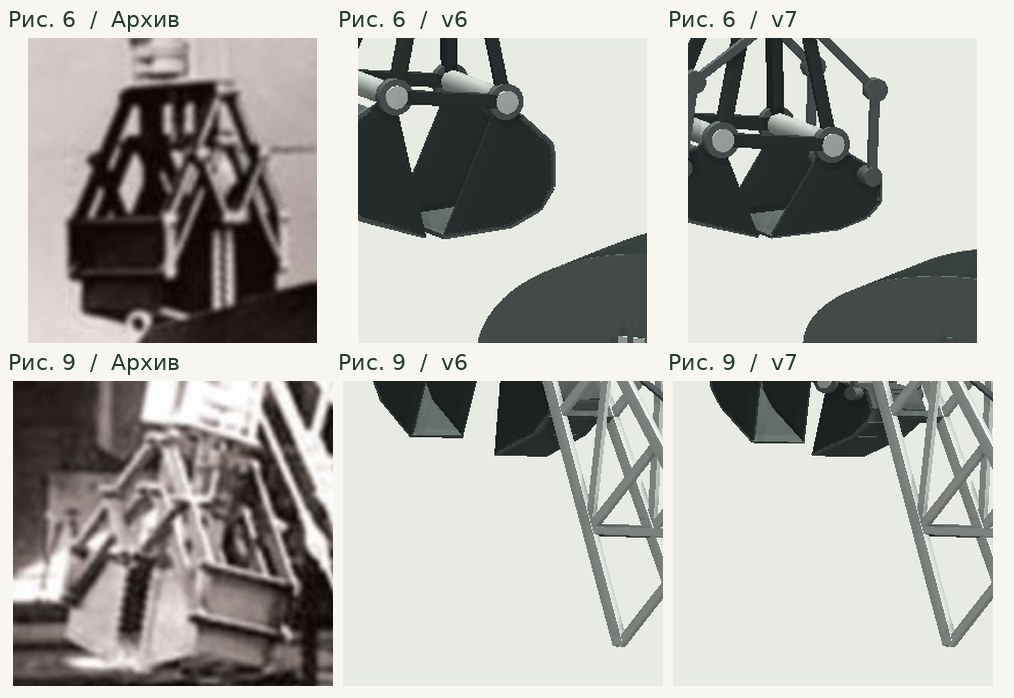
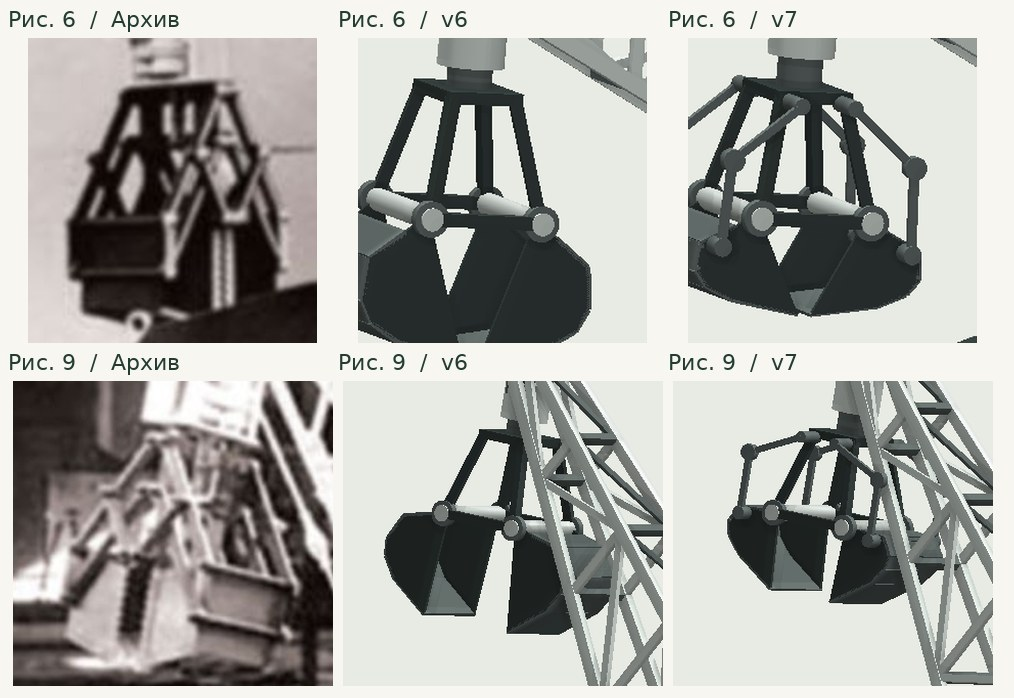
Сопоставить челюсти в одном масштабе и записать приёмку Chromium

diff --git a/mobot-ch-hv-1986-research-v7.html b/mobot-ch-hv-1986-research-v7.html
@@ -35,6 +35,6 @@
 <p class="credit">В. В. Овчинников, А. Ф. Батанов, С. Г. Мингалеев. «Роботы в Чернобыле». <i>Технологии гражданской безопасности</i>, 2019, № 4 (62). Положение модели подобрано по фотографии приблизительно.</p></section>
 <section id="passport" class="section"><div class="sectitle"><div><div class="kicker"><span class="rule"></span>Паспорт модели</div><h2>Степень достоверности</h2></div></div>
 <div class="evidence"><article><b>A</b><div><h3>Техническое описание</h3><p>Полиуретановые траки, грейфер, две степени подвижности погрузчика и две телекамеры.</p></div></article><article><b>B</b><div><h3>Архивный снимок</h3><p>Очертания кожуха, решётчатые боковины стрелы, нижний ряд дисков и форма ковша.</p></div></article><article><b>C</b><div><h3>Гипотеза</h3><p>Размеры, скрытые связи, оси и диапазоны движений. Заводские чертежи и обмеры отсутствуют.</p></div></article></div>
-<div class="footlinks"><a href="./research/mobot/1986/v7/whole-machine.jpg">Машина в двух ракурсах ↗</a><a href="./research/mobot/1986/v7/comparison.jpg">Грейфер: архив / v6 / v7 ↗</a><a href="./mobot-ch-hv-1986-research-v7-passport.json">Паспорт узлов ↗</a><a href="./mobot-ch-hv-1986-research-v7-qa.json">Журнал проверок ↗</a><a href="./mobot-ch-hv-1986-research-v6.html">Предыдущая версия v6 ↗</a></div></section>
+<div class="footlinks"><a href="./research/mobot/1986/v7/whole-machine.jpg">Общий вид · совмещение по шасси ↗</a><a href="./research/mobot/1986/v7/comparison.jpg">Грейфер · совмещение по траверсе ↗</a><a href="./mobot-ch-hv-1986-research-v7-passport.json">Паспорт узлов ↗</a><a href="./mobot-ch-hv-1986-research-v7-qa.json">Журнал проверок ↗</a><a href="./mobot-ch-hv-1986-research-v6.html">Предыдущая версия v6 ↗</a></div></section>
 </main><footer><div class="wrap bar"><span>Мобот-Ч-ХВ · 1986</span><a href="https://github.com/STEP3DLab/vr_anapa">Исходные материалы ↗</a></div></footer>
 <script type="module" src="./research/mobot/1986/v7/viewer.js"></script></body></html>

diff --git a/research/mobot/1986/v7/plates.py b/research/mobot/1986/v7/plates.py
@@ -19,7 +19,15 @@ def create_plate(tmp,detail):
     for row,key in enumerate(('fig6','fig9')):
         source=Image.open(ROOT/data[key]['image']).convert('RGB')
         for col,image in enumerate([source,Image.open(tmp/(key+'-v6.ppm')),Image.open(tmp/(key+'-v7.ppm'))]):
-            if detail:image=image.crop(data[key]['crop'])
+            if detail:
+                x0,y0,x1,y1=data[key]['crop']
+                if col:
+                    # Translate the crop only, keeping the chassis-derived pixel scale.
+                    anchor=json.loads((tmp/(key+'-'+headers[col]+'.json')).read_text())['top']
+                    tx,ty=data[key]['grapple']['top'][:2]
+                    dx,dy=round(anchor[0]-tx),round(anchor[1]-ty)
+                    x0+=dx;x1+=dx;y0+=dy;y1+=dy
+                image=image.crop((x0,y0,x1,y1))
             tile=ImageOps.contain(image,(tw-6,th),Image.Resampling.LANCZOS);left=8+col*tw;y=6+row*(th+38)
             draw.text((left,y),'Рис. '+key[3:]+'  /  '+headers[col],font=font,fill='#233c32')
             plate.paste(tile,(left+(tw-tile.width)//2,y+32+(th-tile.height)//2))
@@ -28,5 +36,5 @@ with tempfile.TemporaryDirectory() as temp:
     tmp=Path(temp)
     for key in ('fig6','fig9'):
         for v in ('v6','v7'):
-            subprocess.run(['node',str(HERE/'photo-render.mjs'),str(args.registration),key,v,str(tmp/(key+'-'+v+'.ppm'))],cwd=ROOT,check=True)
+            subprocess.run(['node',str(HERE/'photo-render.mjs'),str(args.registration),key,v,str(tmp/(key+'-'+v+'.ppm')),str(tmp/(key+'-'+v+'.json'))],cwd=ROOT,check=True)
     for detail in (True,False):create_plate(tmp,detail)

diff --git a/research/mobot/1986/v7/STATE.md b/research/mobot/1986/v7/STATE.md
@@ -35,3 +35,7 @@
 Геометрия — PASS (2025 поз сетки; 3204 позы грейфера; 7865 поз ковша; 6144 дополнительных сочетаний движений; 188928 расстояний от реальных башмаков до окружностей колёс). Заменено вычисление плоской ориентации звеньев, снято расхождение вблизи вертикали: остаток на пальце меньше 1e-12 условной единицы. Физический телефон, обмер оригинала и все пары деталей — NOT RUN. Приёмка WebGL2 и публичной страницы — смотреть последний завершённый [прогон GitHub](https://github.com/STEP3DLab/vr_anapa/actions/workflows/mobot-1986-v7-verify.yml).
 
 Очередь на ночь: (1) по двум фото раздельно разметить пальцы оголовка, верх траверсы и оси пяты, оценить перспективу и сравнить с текущей слабоперспективной камерой, (2) проверить высоту оголовка, длину подвеса и расширение стойки у основания, (3) проверить открытие челюстей по рис. 9 и толщину листа ковша, (4) провести повторную геометрию и браузер, (5) сохранить подтверждённую версию, ссылки и оставшиеся расхождения в MORNING.md. Каждый этап заканчивать собственным коммитом, учитывать параллельные изменения в main.
+
+### Проверка браузера и чтение планшетов
+
+PR #12, исходная приёмка v7 на GitHub Actions — [PASS](https://github.com/STEP3DLab/vr_anapa/actions/runs/44183323442). В общей паре ракурсов используется совмещение по шасси, поэтому видно расхождение положения конца стрелы. Для крупного плана добавлен только перенос кадра по верхней траверсе, без раздельного подбора масштаба. Сравнение показывает форму обеих версий даже при большой ошибке абсолютного положения. Следующей сессии начать с ориентира подвеса на рис. 9 и перспективной проверки всей сцены.
